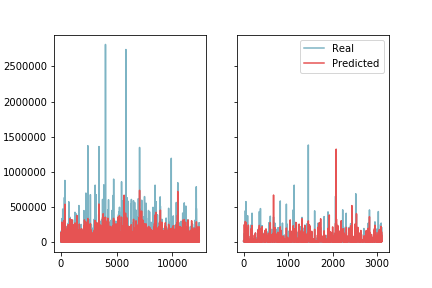
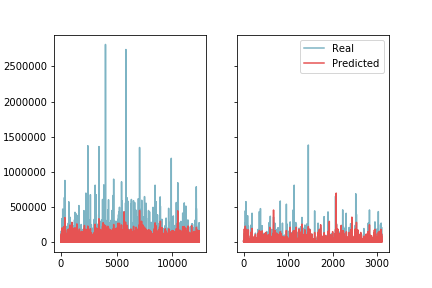
generated graphs

diff --git a/nn/final/nn_functions.py b/nn/final/nn_functions.py
@@ -70,11 +70,9 @@ def get_data(filename, target):
 def root_mean_squared_error(y_true, y_pred):
         return K.sqrt(K.mean(K.square(y_pred - y_true))) 
 
-#3)Adam combines the good properties of Adadelta and RMSprop and hence tend to do better for most of the problems.
 def fit_model(model, x_train, x_test, y_train, y_test, optimizer, epochs, model_id=None):
     model.compile(loss=root_mean_squared_error, optimizer=optimizer, metrics=['mse'])
-    #history = model.fit(x_train, y_train, epochs=epochs, verbose=0, validation_data=(x_test, y_test), shuffle=True)
-    history = model.fit(x_train, y_train, epochs=epochs, verbose=0, validation_split=0.2)
+    history = model.fit(x_train, y_train, epochs=epochs, verbose=0, validation_data=(x_test, y_test), shuffle=True)
     filename = None
     if (model_id!=None):
         filename = 'loss_' + str(model_id) + '.png'
@@ -101,7 +99,7 @@ def run_model(input_nodes, hidden_nodes, x_train, x_test, y_train, y_test, optim
     model = tf.keras.models.Sequential()
     model.add(tf.keras.layers.Dense(input_nodes, tf.keras.activations.linear))
     model.add(tf.keras.layers.Dense(hidden_nodes, tf.keras.activations.relu))
-    model.add(tf.keras.layers.Dense(56, tf.keras.activations.relu))
+    model.add(tf.keras.layers.Dense(1, tf.keras.activations.linear))
     model = fit_model(model, x_train, x_test, y_train, y_test, optimizer, epochs, model_id)    
     y_train_pred, y_test_pred, mse,rmse,r2,error = predict(model, x_train, y_train, x_test, y_test)
     fig, (ax1, ax2) = plt.subplots(1, 2, sharex=False, sharey=True)

diff --git a/nn/final/final_models.py b/nn/final/final_models.py
@@ -20,7 +20,7 @@ print('PCA assessland - sample')
 x_train, x_test, y_train, y_test, predictors = nn_functions.get_data('../../plutoPCA_land.csv','assessland')
 epochs = 10
 input_nodes = 170
-hidden_nodes = 114 
+hidden_nodes = 51 
 optimizer = 'rmsprop'
 nn_functions.run_model(input_nodes, hidden_nodes, x_train, x_test, y_train, y_test, optimizer, epochs, 2)
 
@@ -34,9 +34,9 @@ nn_functions.run_model(input_nodes, hidden_nodes, x_train, x_test, y_train, y_te
 
 print('PCA assessland - full')
 x_train, x_test, y_train, y_test, predictors = nn_functions.get_data('../../python_modeling/arjuna/plutoPCA_fullland.csv','assessland')
-epochs = 30
+epochs = 100
 input_nodes = 170
-hidden_nodes = 114 
+hidden_nodes = 51 
 optimizer = 'rmsprop'
 nn_functions.run_model(input_nodes, hidden_nodes, x_train, x_test, y_train, y_test, optimizer, epochs, 4)
 
